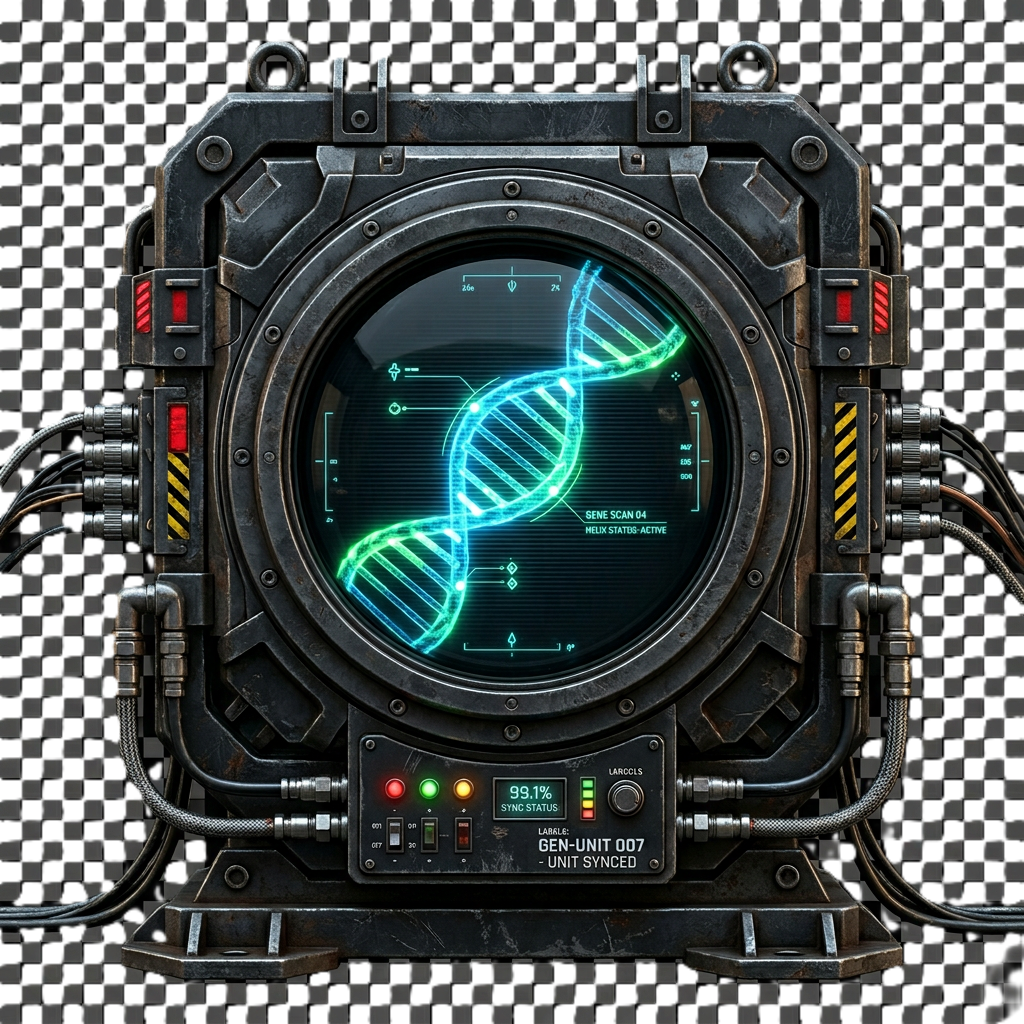
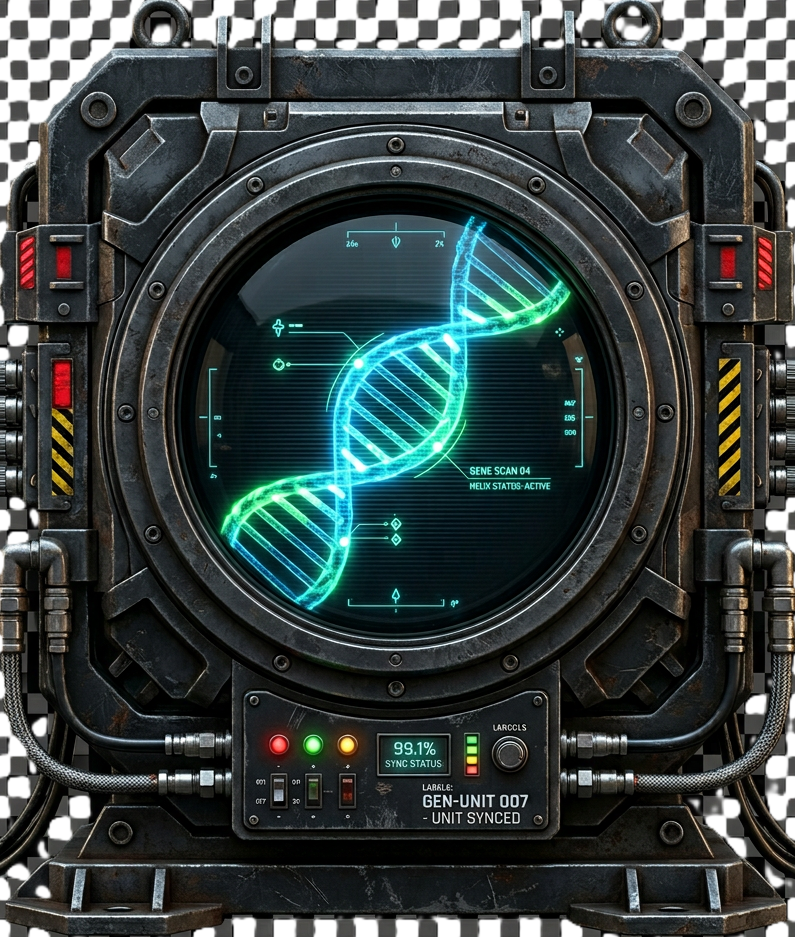
Add breeding monitor UI

diff --git a/Assets/Scripts/BreedingManager.cs b/Assets/Scripts/BreedingManager.cs
@@ -57,6 +57,7 @@ public class BreedingManager : MonoBehaviour
         ConfigurePortraitImage(parent1PortraitImage);
         ConfigurePortraitImage(parent2PortraitImage);
         ConfigurePortraitImage(puppyPreviewImage);
+        ConfigurePuppyPreviewImage();
         ConfigurePuppyPreviewText();
     }
 
@@ -1140,9 +1141,10 @@ public class BreedingManager : MonoBehaviour
             parent2PortraitImage = FindSceneComponentByName<Image>("Parent2PortraitImage");
         }
 
-        if (puppyPreviewText == null)
+        TextMeshProUGUI breedCenterText = FindSceneComponentByName<TextMeshProUGUI>("BreedCenterText");
+        if (breedCenterText != null)
         {
-            puppyPreviewText = FindSceneComponentByName<TextMeshProUGUI>("BreedCenterText");
+            puppyPreviewText = breedCenterText;
         }
 
         if (puppyPreviewImage == null)
@@ -1187,29 +1189,19 @@ public class BreedingManager : MonoBehaviour
 
     Image CreatePuppyPreviewImage()
     {
-        Transform previewParent = null;
-
-        if (puppyPreviewText != null)
-        {
-            previewParent = puppyPreviewText.transform.parent;
-        }
-
-        if (previewParent == null)
-        {
-            RectTransform centerPanel = FindSceneComponentByName<RectTransform>("BreedCenterPanel1");
-            previewParent = centerPanel != null ? centerPanel.transform : transform;
-        }
+        RectTransform centerPanel = FindSceneComponentByName<RectTransform>("BreedCenterPanel1");
+        Transform previewParent = centerPanel != null ? centerPanel.transform : transform;
 
         GameObject imageObject = new GameObject("PuppyPreviewImage", typeof(RectTransform), typeof(CanvasRenderer), typeof(Image));
         imageObject.transform.SetParent(previewParent, false);
         imageObject.transform.SetAsFirstSibling();
 
         RectTransform rectTransform = imageObject.GetComponent<RectTransform>();
-        rectTransform.anchorMin = new Vector2(0.5f, 0.5f);
-        rectTransform.anchorMax = new Vector2(0.5f, 0.5f);
-        rectTransform.pivot = new Vector2(0.5f, 0.5f);
-        rectTransform.anchoredPosition = new Vector2(0f, -62f);
-        rectTransform.sizeDelta = new Vector2(110f, 110f);
+        rectTransform.anchorMin = new Vector2(0.5f, 0f);
+        rectTransform.anchorMax = new Vector2(0.5f, 0f);
+        rectTransform.pivot = new Vector2(0.5f, 0f);
+        rectTransform.anchoredPosition = new Vector2(0f, 14f);
+        rectTransform.sizeDelta = new Vector2(70f, 70f);
         rectTransform.localScale = Vector3.one;
 
         Image image = imageObject.GetComponent<Image>();
@@ -1220,6 +1212,30 @@ public class BreedingManager : MonoBehaviour
         return image;
     }
 
+    void ConfigurePuppyPreviewImage()
+    {
+        if (puppyPreviewImage == null)
+        {
+            return;
+        }
+
+        RectTransform centerPanel = FindSceneComponentByName<RectTransform>("BreedCenterPanel1");
+        RectTransform rectTransform = puppyPreviewImage.rectTransform;
+
+        if (centerPanel != null && rectTransform.parent != centerPanel)
+        {
+            rectTransform.SetParent(centerPanel, false);
+        }
+
+        rectTransform.SetAsFirstSibling();
+        rectTransform.anchorMin = new Vector2(0.5f, 0f);
+        rectTransform.anchorMax = new Vector2(0.5f, 0f);
+        rectTransform.pivot = new Vector2(0.5f, 0f);
+        rectTransform.anchoredPosition = new Vector2(0f, 14f);
+        rectTransform.sizeDelta = new Vector2(70f, 70f);
+        rectTransform.localScale = Vector3.one;
+    }
+
     void ConfigurePuppyPreviewText()
     {
         if (puppyPreviewText == null)
@@ -1228,13 +1244,29 @@ public class BreedingManager : MonoBehaviour
         }
 
         puppyPreviewText.raycastTarget = false;
-        puppyPreviewText.alignment = TextAlignmentOptions.Center;
+        puppyPreviewText.alignment = TextAlignmentOptions.TopLeft;
         puppyPreviewText.enableWordWrapping = true;
-        puppyPreviewText.fontSize = Mathf.Min(puppyPreviewText.fontSize, 16f);
+        puppyPreviewText.overflowMode = TextOverflowModes.Truncate;
 
+        RectTransform centerPanel = FindSceneComponentByName<RectTransform>("BreedCenterPanel1");
         RectTransform rectTransform = puppyPreviewText.rectTransform;
-        rectTransform.anchoredPosition = new Vector2(0f, 66f);
-        rectTransform.sizeDelta = new Vector2(330f, 112f);
+        bool textWasMovedIntoCenterPanel = false;
+
+        if (centerPanel != null && rectTransform.parent != centerPanel)
+        {
+            rectTransform.SetParent(centerPanel, false);
+            textWasMovedIntoCenterPanel = true;
+        }
+
+        if (textWasMovedIntoCenterPanel)
+        {
+            rectTransform.anchorMin = Vector2.zero;
+            rectTransform.anchorMax = Vector2.one;
+            rectTransform.pivot = new Vector2(0.5f, 0.5f);
+            rectTransform.offsetMin = new Vector2(22f, 88f);
+            rectTransform.offsetMax = new Vector2(-22f, -22f);
+            rectTransform.localScale = Vector3.one;
+        }
     }
 
     void UpdatePuppyPreview(Dog parent1, Dog parent2)
@@ -1263,16 +1295,98 @@ public class BreedingManager : MonoBehaviour
         {
             return
                 "Puppy Preview\n" +
-                $"Breed: {predictedBreed}\n" +
+                $"Predicted Breed: {predictedBreed}\n" +
+                BuildGenerationPreviewLine(parent1, parent2) +
+                BuildParentMixLine(parent1, parent2) +
                 warning;
         }
 
         return
             "Puppy Preview\n" +
-            $"Breed: {predictedBreed}\n" +
-            "Sex: Male or Female\n" +
-            $"Family: {GetBreedFamilyLabel(predictedBreed, parent1, parent2)}\n" +
-            BuildPotentialPreviewLine(parent1, parent2);
+            $"Predicted Breed: {predictedBreed}\n" +
+            BuildGenerationPreviewLine(parent1, parent2) +
+            BuildParentMixLine(parent1, parent2) +
+            BuildLikelyTraitPreviewLine(parent1, parent2) +
+            BuildLikelyStatRangePreviewLine(parent1, parent2) +
+            $"Preview Image: {GetBreedFamilyLabel(predictedBreed, parent1, parent2)}";
+    }
+
+    string BuildGenerationPreviewLine(Dog parent1, Dog parent2)
+    {
+        int predictedGeneration = Mathf.Max(parent1.generation, parent2.generation) + 1;
+        return $"Generation: G{predictedGeneration + 1}\n";
+    }
+
+    string BuildParentMixLine(Dog parent1, Dog parent2)
+    {
+        return
+            $"Parent Mix: {GetParentMixLabel(parent1)} x {GetParentMixLabel(parent2)}\n";
+    }
+
+    string GetParentMixLabel(Dog parent)
+    {
+        if (parent == null)
+        {
+            return "Unknown";
+        }
+
+        string parentName = string.IsNullOrWhiteSpace(parent.dogName)
+            ? "Unknown"
+            : parent.dogName.Trim();
+        string parentBreed = string.IsNullOrWhiteSpace(parent.breed)
+            ? "Unknown"
+            : GetDisplayBreedName(parent.breed);
+
+        return $"{parentName} ({parentBreed})";
+    }
+
+    string BuildLikelyTraitPreviewLine(Dog parent1, Dog parent2)
+    {
+        string inheritedTraits = BuildLikelyInheritedTraitText(parent1, parent2);
+        int mutationPercent = Mathf.RoundToInt(traitMutationChance * 100f);
+
+        return $"Likely Traits: {inheritedTraits}; {mutationPercent}% mutation chance\n";
+    }
+
+    string BuildLikelyInheritedTraitText(Dog parent1, Dog parent2)
+    {
+        System.Collections.Generic.List<string> traitNames = new System.Collections.Generic.List<string>();
+        AddTraitNameIfMissing(traitNames, parent1.primaryTrait);
+        AddTraitNameIfMissing(traitNames, parent1.secondaryTrait);
+        AddTraitNameIfMissing(traitNames, parent2.primaryTrait);
+        AddTraitNameIfMissing(traitNames, parent2.secondaryTrait);
+
+        if (traitNames.Count == 0)
+        {
+            return "None from parents";
+        }
+
+        return string.Join("/", traitNames.ToArray());
+    }
+
+    void AddTraitNameIfMissing(System.Collections.Generic.List<string> traitNames, DogTrait trait)
+    {
+        if (traitNames == null || trait == DogTrait.None)
+        {
+            return;
+        }
+
+        string traitName = trait.ToString();
+
+        if (!traitNames.Contains(traitName))
+        {
+            traitNames.Add(traitName);
+        }
+    }
+
+    string BuildLikelyStatRangePreviewLine(Dog parent1, Dog parent2)
+    {
+        return
+            "Likely Stat Range:\n" +
+            $"STR {BuildStartingStatRange(parent1.strength, parent2.strength, parent1.strengthPotential, parent2.strengthPotential)}  " +
+            $"AGI {BuildStartingStatRange(parent1.agility, parent2.agility, parent1.agilityPotential, parent2.agilityPotential)}\n" +
+            $"STA {BuildStartingStatRange(parent1.stamina, parent2.stamina, parent1.staminaPotential, parent2.staminaPotential)}  " +
+            $"INT {BuildStartingStatRange(parent1.GetIntelligence(), parent2.GetIntelligence(), parent1.GetIntelligencePotential(), parent2.GetIntelligencePotential())}\n";
     }
 
     string GetPuppyPreviewWarning(Dog parent1, Dog parent2)
@@ -1316,16 +1430,43 @@ public class BreedingManager : MonoBehaviour
             $"INT {BuildPotentialRange(parent1.GetIntelligencePotential(), parent2.GetIntelligencePotential())}";
     }
 
+    string BuildStartingStatRange(int parentStat1, int parentStat2, int parentPotential1, int parentPotential2)
+    {
+        int average = Mathf.RoundToInt((parentStat1 + parentStat2) / 2f);
+        int potentialHigh = GetPotentialPreviewHigh(parentPotential1, parentPotential2);
+        int upperLimit = Mathf.Min(100, potentialHigh);
+        int low = Mathf.Clamp(average - statVariance, 1, upperLimit);
+        int high = Mathf.Clamp(average + statVariance, 1, upperLimit);
+
+        if (high < low)
+        {
+            high = low;
+        }
+
+        return $"{low}-{high}";
+    }
+
     string BuildPotentialRange(int parentPotential1, int parentPotential2)
+    {
+        int inheritedPotential = GetInheritedPotentialPreviewCenter(parentPotential1, parentPotential2);
+        int low = Mathf.Clamp(inheritedPotential - potentialVariance, 40, 120);
+        int high = GetPotentialPreviewHigh(parentPotential1, parentPotential2);
+
+        return $"{low}-{high}";
+    }
+
+    int GetPotentialPreviewHigh(int parentPotential1, int parentPotential2)
+    {
+        int inheritedPotential = GetInheritedPotentialPreviewCenter(parentPotential1, parentPotential2);
+        return Mathf.Clamp(inheritedPotential + potentialVariance, 40, 120);
+    }
+
+    int GetInheritedPotentialPreviewCenter(int parentPotential1, int parentPotential2)
     {
         int bestParentPotential = Mathf.Max(parentPotential1, parentPotential2);
         int average = Mathf.RoundToInt((parentPotential1 + parentPotential2) / 2f);
         int inheritanceFloor = Mathf.RoundToInt(bestParentPotential * 0.85f);
-        int inheritedPotential = Mathf.Max(average, inheritanceFloor);
-        int low = Mathf.Clamp(inheritedPotential - potentialVariance, 40, 120);
-        int high = Mathf.Clamp(inheritedPotential + potentialVariance, 40, 120);
-
-        return $"{low}-{high}";
+        return Mathf.Max(average, inheritanceFloor);
     }
 
     Sprite ChoosePuppyPreviewSprite(Dog parent1, Dog parent2, string predictedBreed)
